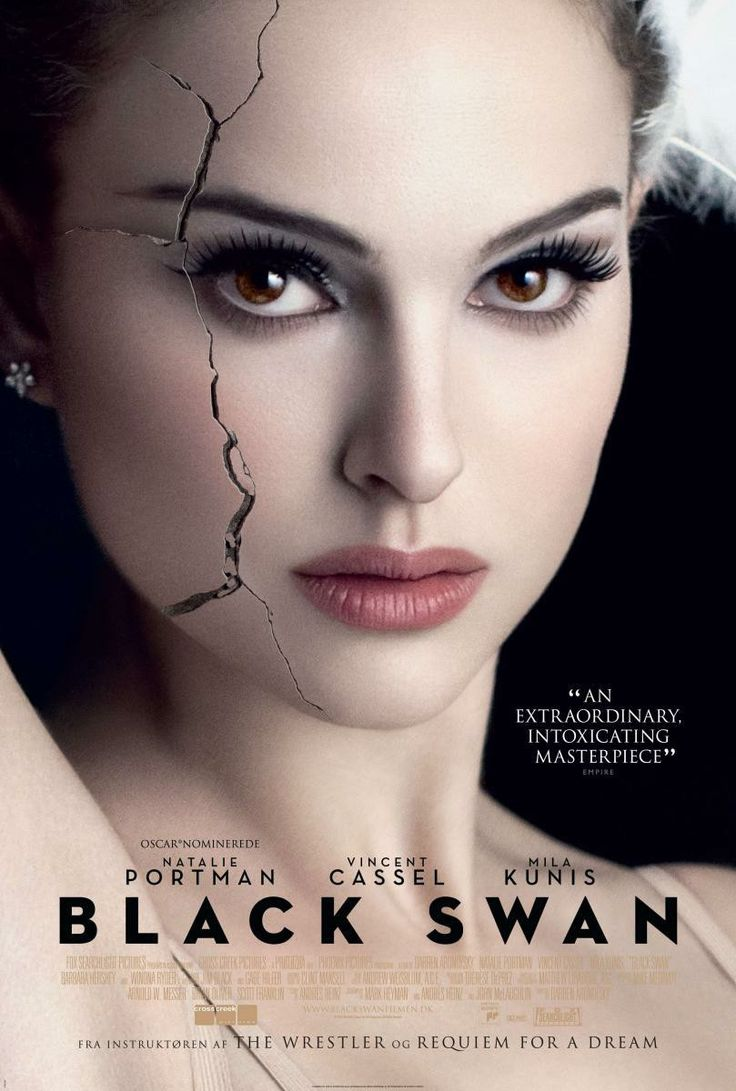
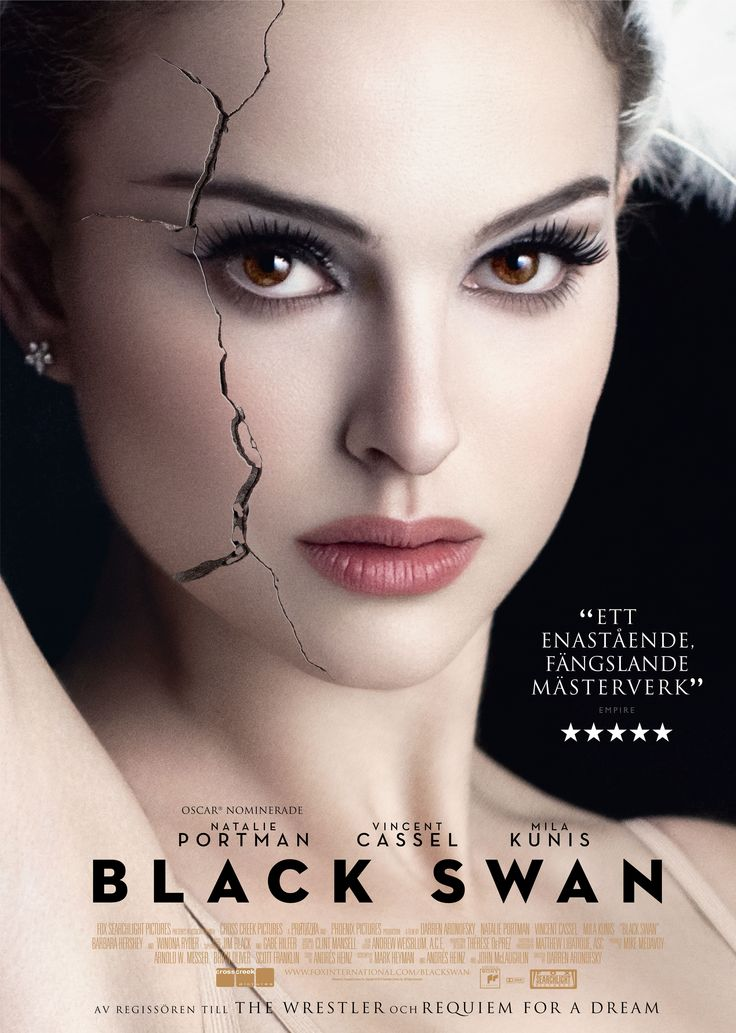
landing page commit 3

diff --git a/index.html b/index.html
@@ -31,9 +31,7 @@
     <link href="css/My_styles.css" rel="stylesheet">
     <!-- responsive style -->
     <link href="css/responsive.css" rel="stylesheet">
-    <script src="https://code.jquery.com/jquery-3.6.0.slim.min.js"></script>
-    <script src="https://cdn.jsdelivr.net/npm/@popperjs/core@2.9.2/dist/umd/popper.min.js"></script>
-    <script src="https://cdn.jsdelivr.net/npm/bootstrap@5.0.0/dist/js/bootstrap.min.js"></script>
+
     <script src="js/my_scripts.js"></script>
     <script src="js/bootstrap.bundle.js"></script>
 
@@ -114,72 +112,71 @@
 
 
 
-        <!-- about section -->
-        <section id="aboutsection">
-            <div class="sectionblock container">
-                <div class="row">
-                    <div class="col-sm-4 text-center text-lg-left">
-                        <div class="abouthero">
-                            <h3>About Me</h3>
-                        </div>
-                        <img src="Image/about me/Myphoto.jpg" class="img-fluid" alt="poto">
+    <!-- about section -->
+    <section id="aboutsection">
+        <div class="sectionblock container">
+            <div class="row">
+                <div class="col-sm-4 text-center text-lg-left">
+                    <div class="abouthero">
+                        <h3>About Me</h3>
                     </div>
-                    <div class="col-sm-8 pl-lg-5 text-center text-lg-left">
-                        <div class="infoabout">
-                            <p class="infoabout__title">
-                            저는 HCI 사이언스 학과 본전공생이자, 정보통계학과 복수전공생 입니다.</p>
-
-                            <div class="row  text-center text-lg-center">
-                                <div class="col-sm-6">
-                                    <ul class="infoabout__list">
-                                        <li>
-                                            <div class="infoabout__wrap">
-                                                <span class="mt-4 mb-2 d-block infoabout__title">Name : </span>
-                                                <p>강현정</p></div></li>
-                                        <li>
-                                            <div class="infoabout__wrap">
-                                                <span class="mt-4 mb-2 d-block infoabout__title">Email :</span>
-                                                <p>hyeonjeong2203@gmail.com</p></div></li>
-                                        <li>
-                                            <div class="infoabout__wrap">
-                                                <span class="mt-4 mb-2 d-block infoabout__title">Phone :</span>
-                                                <p>010-****-9042</p></div></li>
-                                        <li>
-                                            <div class="infoabout__wrap">
-                                                <span class="mt-4 mb-2 d-block infoabout__title">City :</span>
-                                                <p>Seoul, Republic of Korea</p></div></li>
-                                    </ul>
-                                </div>
-
-                                <div class="col-sm-6">
-                                    <ul class="infoabout__list">
-                                        <li>
-                                            <div class="infoabout__wrap">
-                                                <span class="mt-4 mb-2 d-block infoabout__title">Age :</span>
-                                                <p>21</p></div></li>
-                                        <li>
-                                            <div class="infoabout__wrap">
-                                                <span class="mt-4 mb-2 d-block infoabout__title">BirthDate :</span>
-                                                <p>2003.07.27</p></div></li>
-                                        <li>
-                                            <div class="infoabout__wrap">
-                                                <span class="mt-4 mb-2 d-block infoabout__title">University :</span>
-                                                <p>Dongduk Women's University</p></div></li>
-                                        <li>
-                                            <div class="infoabout__wrap">
-                                                <span class="mt-4 mb-2 d-block infoabout__title">Major :</span>
-                                                <p>Hci science</p></div></li>
-                                    </ul>
-                                </div>
-
+                    <img src="Image/about me/Myphoto.jpg" class="img-fluid" alt="poto">
+                </div>
+                <div class="col-sm-8 pl-lg-5 text-center text-lg-left">
+                    <div class="infoabout">
+                        <p class="infoabout__title">저는 정보통계학과 복수전공생 입니다.</p>
+                        <div class="row  text-center text-lg-center">
+                            <div class="col-sm-6">
+                                <ul class="infoabout__list">
+                                    <li>
+                                        <div class="infoabout__wrap">
+                                            <br>
+                                            <span class="mt-4 mb-2 d-block infoabout__title text-success">Name : </span>
+                                            <p>강현정</p></div></li>
+                                    <li>
+                                        <div class="infoabout__wrap">
+                                            <span class="mt-4 mb-2 d-block infoabout__title">Email :</span>
+                                            <p>hyeonjeong2203@gmail.com</p></div></li>
+                                    <li>
+                                        <div class="infoabout__wrap">
+                                            <span class="mt-4 mb-2 d-block infoabout__title text-success">Phone :</span>
+                                            <p>010-****-9042</p></div></li>
+                                    <li>
+                                        <div class="infoabout__wrap">
+                                            <span class="mt-4 mb-2 d-block infoabout__title">City :</span>
+                                            <p>Seoul, Republic of Korea</p></div></li>
+                                </ul>
                             </div>
+
+                            <div class="col-sm-6">
+                                <ul class="infoabout__list">
+                                    <li><div class="infoabout__wrap">
+                                        <br>
+                                        <span class="mt-4 mb-2 d-block infoabout__title text-success">Age :</span>
+                                        <p>21</p></div></li>
+                                    <li>
+                                        <div class="infoabout__wrap">
+                                            <span class="mt-4 mb-2 d-block infoabout__title">BirthDate :</span>
+                                            <p>2003.07.27</p></div></li>
+                                    <li>
+                                        <div class="infoabout__wrap">
+                                            <span class="mt-4 mb-2 d-block infoabout__title text-success">University :</span>
+                                            <p>Dongduk Women's University</p></div></li>
+                                    <li>
+                                        <div class="infoabout__wrap">
+                                            <span class="mt-4 mb-2 d-block infoabout__title">Major :</span>
+                                            <p>Hci science</p></div></li>
+                                </ul>
+                            </div>
+
                         </div>
                     </div>
                 </div>
             </div>
+        </div>
             <p> &nbsp;</p>
             <p> &nbsp;</p>
-        </section>
+    </section>
         <!-- end about -->
 
 
@@ -312,43 +309,44 @@
         <section id="favritysection" class="container-fluid  px-5">
         <h1 class="text-white text-center mt-4 mb-4">My Favorite Movies</h1>
         <div id="movieCarousel" class="carousel slide" data-bs-ride="carousel" data-bs-interval="3000">
-        <div class="carousel-indicators">
-            <button type="button" data-bs-target="#favritysection" data-bs-slide-to="0" class="active"></button>
-            <button type="button" data-bs-target="#favritysection" data-bs-slide-to="1"></button>
-        </div>
+
 
             <div class="carousel-inner w-75 mx-auto align-items-center">
                 <!-- 카드그룹 1 -->
                 <div class="carousel-item active">
-                    <div class="row justify-content-center" >
-                        <!--첫 번째 영화 카드-->
-                        <article class="col-sm-3 movie-card">
-                            <div class="card">
-                                <img src="Image/Favority/movie1.jpg" class="card-img-top" alt="Movie 1">
-                                <div class="card-body">
-                                    <h6 class="card-title">" 역사적 사건을 재해석한 감독의 창의력과 연출이 다한 영화 "</h6>
-                                    <p class="card-text">22.11.23 / 안태진</p>
-                                    <hr>
-                                    <a href="https://youtu.be/jyrXG9QC9ZI?si=RCZpNfrWilgLCV-n" class="btn btn-primary">More</a>
-                                </div>
+                    <!--첫 번째 영화 카드-->
+                    <article class="col-sm-3 mx-auto movie-card">
+                        <div class="card">
+                            <img src="Image/Favority/movie1.jpg" class="card-img-top" alt="Movie 1">
+                            <div class="card-body">
+                                <h6 class="card-title">" 역사적 사건을 재해석한 감독의 창의력과 연출이 다한 영화 "</h6>
+                                <p class="card-text">22.11.23 / 안태진</p>
+                                <hr>
+                                <a href="https://youtu.be/jyrXG9QC9ZI?si=RCZpNfrWilgLCV-n" class="btn btn-primary">More</a>
                             </div>
-                        </article>
+                        </div>
+                    </article>
+                </div>
 
-                        <!-- 두 번째 영화 카드 -->
-                        <article class="col-sm-3 movie-card">
-                            <div class="card">
-                                <img src="Image/Favority/movie2.jpg" class="card-img-top" alt="Movie 2">
-                                <div class="card-body">
-                                    <h6 class="card-title">" 누군가를 사랑하며 느끼는 불안과 삶에 대한 영화 "</h6>
-                                    <p class="card-text">22.11.30 / 루카 구아다니노</p>
-                                    <hr>
-                                    <a href="#" class="btn btn-primary">More</a>
-                                </div>
+
+                <div class="carousel-item">
+                    <!-- 두 번째 영화 카드 -->
+                    <article class="col-sm-3 mx-auto movie-card">
+                        <div class="card">
+                            <img src="Image/Favority/movie2.jpg" class="card-img-top" alt="Movie 2">
+                            <div class="card-body">
+                                <h6 class="card-title">" 누군가를 사랑하며 느끼는 불안과 삶에 대한 영화 "</h6>
+                                <p class="card-text">22.11.30 / 루카 구아다니노</p>
+                                <hr>
+                                <a href="#" class="btn btn-primary">More</a>
                             </div>
-                        </article>
+                        </div>
+                    </article>
+                </div>
 
+                <div class="carousel-item">
                         <!--세 번째 영화 카드-->
-                        <article class="col-sm-3 movie-card">
+                        <article class="col-sm-3 mx-auto movie-card">
                             <div class="card">
                                 <img src="Image/Favority/movie3.jpg" class="card-img-top" alt="Movie 3">
                                 <div class="card-body">
@@ -359,8 +357,11 @@
                                 </div>
                             </div>
                         </article>
+                </div>
+
+                <div class="carousel-item">
                         <!-- 네 번째 영화 카드-->
-                        <article class="col-sm-3 movie-card">
+                        <article class="col-sm-3 mx-auto movie-card">
                             <div class="card">
                                 <img src="Image/Favority/movie4.jpg" class="card-img-top" alt="Movie 4">
                                 <div class="card-body">
@@ -372,14 +373,13 @@
                                 </div>
                             </div>
                         </article>
-                    </div>
                 </div>
 
-                <!--카드 그룹2 -->
+
+
                 <div class="carousel-item">
-                    <div class="row justify-content-center">
                         <!--첫 번째 영화 카드-->
-                        <article class="col-sm-3 movie-card">
+                        <article class="col-sm-3 mx-auto movie-card">
                             <div class="card">
                                 <img src="Image/Favority/movie5.jpg" alt="Movie 5">
                                 <div class="card-body">
@@ -391,9 +391,11 @@
                                 </div>
                             </div>
                         </article>
+                </div>
 
+                <div class="carousel-item">
                         <!-- 두 번째 영화 카드 -->
-                        <article class="col-sm-3 movie-card">
+                        <article class="col-sm-3 mx-auto movie-card">
                             <div class="card">
                                 <img src="Image/Favority/movie6.jpg" class="card-img-top" alt="Movie 6">
                                 <div class="card-body">
@@ -404,9 +406,11 @@
                                 </div>
                             </div>
                         </article>
+                </div>
 
+                <div class="carousel-item">
                         <!--세 번째 영화 카드-->
-                        <article class="col-sm-3 movie-card">
+                        <article class="col-sm-3 mx-auto movie-card">
                             <div class="card">
                                 <img src="Image/Favority/movie7.jpg" class="card-img-top" alt="Movie 7">
                                 <div class="card-body">
@@ -418,10 +422,13 @@
                                 </div>
                             </div>
                         </article>
+                </div>
+
+                <div class="carousel-item">
                         <!-- 네 번째 영화 카드-->
-                        <article class="col-sm-3 movie-card">
+                        <article class="col-sm-3 mx-auto movie-card">
                             <div class="card">
-                                <img src="Image/Favority/Black Swan, 2011 — Official Poster_ Direção_ Darren Aronofsky_.jpg" class="card-img-top" alt="Movie 8">
+                                <img src="Image/Favority/movie8.jpg" class="card-img-top" alt="Movie 8">
                                 <div class="card-body">
                                     <p></p>
                                     <h6 class="card-title">" 완벽에 대한 강박, 흑조가 된 백조 "</h6>
@@ -431,7 +438,6 @@
                                 </div>
                             </div>
                         </article>
-                    </div>
                 </div>
             </div>
 

diff --git a/js/my_scripts.js b/js/my_scripts.js
@@ -53,7 +53,7 @@ function loadAssignment(url) {
 
     iframe.style.width = iframeWidth + "px";
     iframe.style.height = iframeHeight + "px";
-    iframe.style.marginTop = "10px";
+
 }
 
 // closeAssignment 함수 정의

diff --git a/css/My_styles.css b/css/My_styles.css
@@ -72,9 +72,7 @@ img {
 }
 
 
-.carousel-inner {
-    height: 100vh;
-}
+
 
 .card-text{
     font-size: small;
